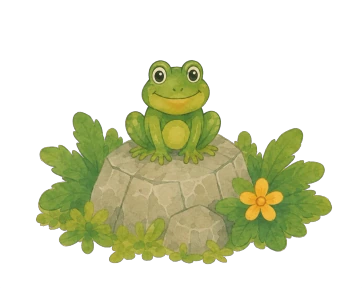
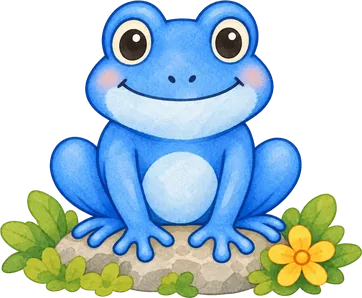
모험탭 지도 개구리 v2 로 교체 + 말풍선 높이 계산 오류 수정 (#710)
- 개구리 원화를 파란 개구리(바위 + 수풀 + 노란 꽃)로 바꿨다.
  받은 PNG 에 약알파(1~19) 픽셀이 11,676개 깔려 있어 그대로 자르면
  1317x1129 로 잡힌다 — 20 미만을 0 으로 눌러 실제 1115x917 만 남겼다.
  화면용 362x298 webp q82 (25.5KB), 연결 조각 1개.

- ANIMAL_AR 의 ev_frog 가 1406/886(=1.59)로 잘못 적혀 있었다. v1 원화도
  실제로는 1406/1119(=1.26) 였다. 이 값은 말풍선을 동물 머리 위에 놓는
  계산에만 쓰이는데, 값이 커서 개구리만 말풍선이 머리에 겹쳐 있었다.
  새 원화 실측 1115/917 로 고쳤다.

구버전 원화(frog-v1-src.webp)와 README 행은 규칙 6 대로 교체했다.

Claude-Session: https://claude.ai/code/session_018maNuYqDfFyRSe9uKpZhPR

diff --git a/src/components/AdventureMap.jsx b/src/components/AdventureMap.jsx
@@ -112,7 +112,7 @@ const ANIMAL_GROUP = {
    폭만 %로 주고 높이는 비율로 따라오므로, 지도 높이 % 로 환산해서 쓴다:
      높이% = 폭% / (원화비율 × 지도세로비) */
 const ANIMAL_AR = { ev_parrot: 738/1158, ev_monkey: 813/936, ev_toucan: 967/809,
-                    ev_boar: 870/749, ev_frog: 1406/886,
+                    ev_boar: 870/749, ev_frog: 1115/917,
                     ev_turtle: 300/175 };
 const animalTop = (M, id) => {
   const a = M.animals?.[id]; if (!a) return null;
@@ -139,7 +139,7 @@ const MAP_LONG = {
      짧은 지도와 같은 배치로 맞췄다 — 큰부리새 왼쪽 위 / 앵무새 오른쪽 위 /
      원숭이 오른쪽 중턱 / 개구리 왼쪽 폭포 옆 / 멧돼지 오른쪽 아래(그대로) /
      거북이 오른쪽 아래 모래사장. 예전엔 왼쪽 아래(x 15)에 셋이 몰려 있었다.
-     폭은 17 로 통일하고 개구리만 24.3 — 원화가 납작해(가로세로 1.59:1)
+     폭은 17 로 통일하고 개구리만 24.3 — 원화가 납작해(가로세로 1.22:1)
      같은 폭에서 유독 작아 보인다.
      [사용자 확정 2026-08-13] 20 → 17 (개구리 28.6 → 24.3, 같은 비율로 15% 축소).
      기준은 '학원 건물보다 약간 큰 정도' — 건물은 폭 14~16.4 · 높이 14.4 라
@@ -231,7 +231,7 @@ const MAP_SHORT = {
   /* 동물 [중심x%, 바닥y%, 폭%] — 하루 세 마리, 그룹마다 하나씩 (shownAnimals).
      자리는 사용자가 화면에 찍어 준 점·화살표를 픽셀→% 보정해 환산한 값이다
      (2026-08-13, 여러 차례에 걸쳐 조정). 긴 지도와 같은 배치다.
-     폭은 17 로 통일하고 개구리만 24.3 — 원화가 납작해(1.59:1) 같은 폭에서 작아 보인다.
+     폭은 17 로 통일하고 개구리만 24.3 — 원화가 납작해(1.22:1) 같은 폭에서 작아 보인다.
      기준은 '학원 건물보다 약간 큰 정도'(건물 폭 14~16.4 · 높이 14.4).
      거북이는 68,87.9 → 78,84 — 긴 지도와 맞춰 오른쪽·위로 옮겼다.
      높이는 원화 비율을 따라가므로 폭이 같아도 종마다 다르다 — 높이% = 폭% / (원화비율 × yr).

diff --git a/art-src/README.md b/art-src/README.md
@@ -391,7 +391,7 @@ getBoundingClientRect로 재서 정한다. 2026-08-05 점검에서 이 기준을
 | map-ev/monkey-v2-src.webp | 지도 동물 — 원숭이 v2 (바위에 앉은 모습, 나뭇가지·덩굴 없음. 원화가 검정 배경으로 와서 테두리에 닿은 검정만 지우고 가장자리를 다듬어 탑재. 지도 폭의 20%) | map-ev/monkey.webp |
 | map-ev/toucan-v1-src.webp | 지도 동물 — 큰부리새 (나뭇가지, 투명. 지도 폭의 20%) | map-ev/toucan.webp |
 | map-ev/boar-v1-src.webp | 지도 동물 — 멧돼지 (투명. 지도 폭의 17%) | map-ev/boar.webp |
-| map-ev/frog-v1-src.webp | 지도 동물 — 개구리 (바위+수풀, 투명. 지도 폭의 24% — 사용자 요청으로 20→24% 확대) | map-ev/frog.webp |
+| map-ev/frog-v2-src.webp | 지도 동물 — 개구리 v2 (파란 개구리가 바위에 앉고 수풀+노란 꽃, 투명. 지도 폭의 24.3%). 받은 PNG 에 약알파(1~19) 11,676px 이 깔려 있어 그냥 `getbbox()` 하면 1317×1129 로 잡힌다 — 20 미만을 0 으로 눌러야 실제 1115×917 이 나온다. **v1 은 가로세로 1.256, v2 는 1.216 — AdventureMap 의 ANIMAL_AR 도 같이 고쳐야 말풍선이 머리 위에 붙는다** (v1 때 1406/886 으로 잘못 적혀 있어 개구리만 말풍선이 어긋나 있었다) | map-ev/frog.webp |
 | map-bld-v9/thatch-src.webp | 지도 학원 건물 v9-1 (초가 오두막 — 통나무 벽·툇마루·항아리). 499×511 → 배포 340×348. 원화의 크림 원(아이콘 자리)이 막혀 있어 그 덩어리만 알파 0으로 뚫어서 탑재했다. cx 49.3 · cy 59.2 · d 39.3 · k 0.88. **네 채의 표시 높이를 같게 맞추는 규칙** — 표시높이 = `bw × k / ar` 가 항상 14.4(지도 폭 %)가 되도록 `k = ar / 1.1083`. 그래서 원화 비율이 달라도 크기는 예전과 같다. v7·v8 세트(각 4장)는 규칙 6에 따라 삭제했다 | map-bld-treehouse2.webp |
 | map-bld-v9/cottage-src.webp | 지도 학원 건물 v9-2 (주황 기와 오두막 — 굴뚝·돌계단·항아리). 518×490 → 배포 340×322. 크림 원 뚫어서 탑재. cx 40.9 · cy 58.5 · d 38.9 · k 0.95 | map-bld-stonearch2.webp |
 | map-bld-v9/stall-src.webp | 지도 학원 건물 v9-3 (나무 가판대 — 청록 차양·랜턴·물통·나무통). 503×501 → 배포 340×339. 크림 원 뚫어서 탑재. cx 45.3 · cy 61.6 · d 37.0 · k 0.91 | map-bld-tent2.webp |
